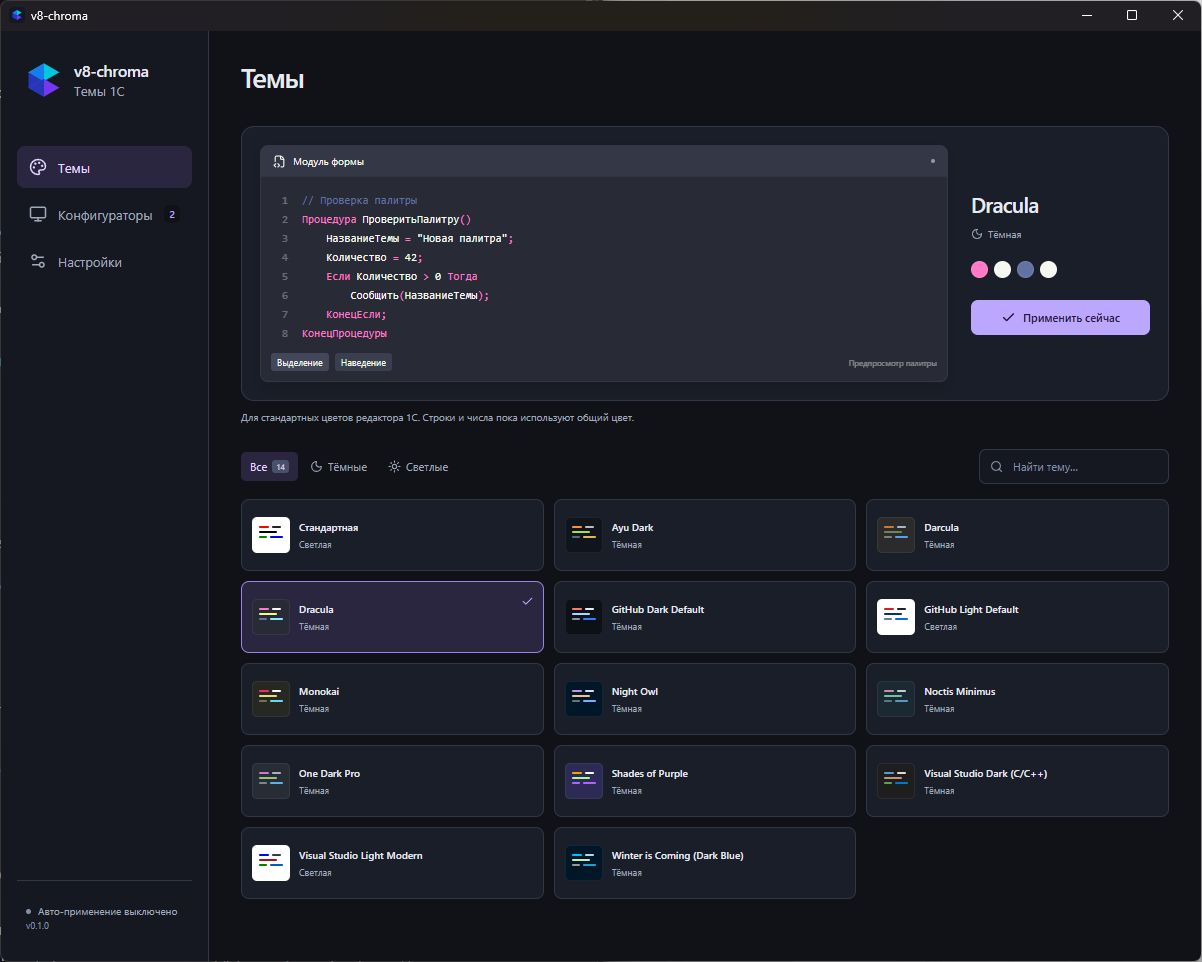
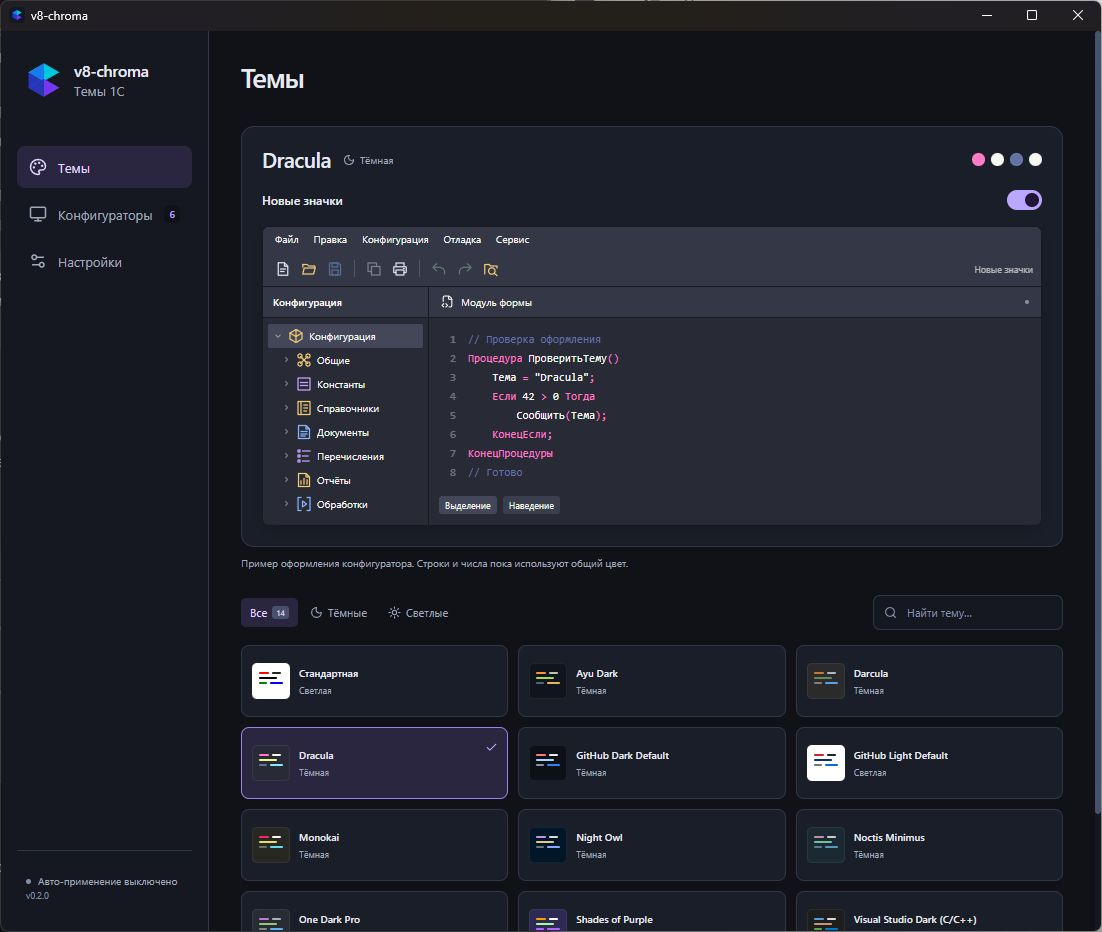
Исправить применение новых значков на других версиях платформы (#4)
Убрано ограничение новых значков по точной версии платформы. Доступность подсистемы определяется Cairo API и импортами, подмена выполняется по отпечатку и размерам каждого изображения.

Добавлены регрессии bootstrap для EXE версии 8.5.4.1878 и уточнённые проверки режима значков. Обновлены раздел совместимости и скриншоты README. Все шесть CI-задач и CodeRabbit прошли.

diff --git a/native/tests/icon_bootstrap.cpp b/native/tests/icon_bootstrap.cpp
@@ -1,5 +1,5 @@
-// Production bootstrap with a deterministic failing icon component. The icon
-// module's own fixture separately checks real preparation failures and cleanup.
+// Production bootstrap on an 8.5 host, with available/failing icon components.
+// The icon module's fixture separately checks real image matching and cleanup.
 #include "../src/protocol.h"
 #include "../src/icon_theme.h"
 #include <stdio.h>
@@ -16,16 +16,20 @@ extern "C" __declspec(dllimport) FrameResult frame_probe();
 extern "C" __declspec(dllimport) BOOL graphics_probe(const ProbeConfig*);
 extern "C" __declspec(dllimport) void graphics_icon_probe();
 
-static unsigned preparations, iconDraws;
+struct IconState { unsigned mode; };
+static IconState prepared;
+static unsigned preparations, iconDraws, activeMode;
+static bool available;
 bool initializeIconTheme(HMODULE) { return true; }
 IconState* prepareIconTheme(unsigned mode,DWORD& error) {
     ++preparations;
-    error=mode?ERROR_NOT_ENOUGH_MEMORY:ERROR_INVALID_PARAMETER;
-    return nullptr;
+    error=available?ERROR_SUCCESS:(mode?ERROR_NOT_ENOUGH_MEMORY:ERROR_INVALID_PARAMETER);
+    prepared.mode=mode;
+    return available?&prepared:nullptr;
 }
-void activateIconTheme(IconState*) {}
+void activateIconTheme(IconState* state) { activeMode=state?state->mode:0; }
 void discardIconTheme(IconState*) {}
-IconStats iconStats() { return {}; }
+IconStats iconStats() { IconStats stats={}; stats.mode=activeMode; return stats; }
 void drawIconSource(void* c,void* p,void(__cdecl* original)(void*,void*)) {
     ++iconDraws; original(c,p);
 }
@@ -36,20 +40,27 @@ void drawIconMaskSurface(void* c,void* s,double x,double y,
                         void(__cdecl* original)(void*,void*,double,double)) {
     ++iconDraws; original(c,s,x,y);
 }
-static bool snapshotMatches(const wchar_t* path,unsigned generation) {
+static bool snapshotMatches(const wchar_t* path,unsigned generation,unsigned requestedMode) {
     if (ThemeSnapshot(nullptr)) return false;
     FILE* file=_wfopen(path,L"rb");
     if (!file) return false;
     char bytes[16384]={}; fread(bytes,1,sizeof(bytes)-1,file); fclose(file);
     char expected[64]; sprintf(expected,"# generation=%u\n",generation);
-    return strstr(bytes,expected) && strstr(bytes,"# patched_imports=14\n") &&
-        strstr(bytes,"# base_patched_imports=14\n") &&
+    bool base=strstr(bytes,expected) && strstr(bytes,"# base_patched_imports=14\n");
+    if (available) {
+        sprintf(expected,"# icon_mode=%u\n",requestedMode);
+        return base && strstr(bytes,"# patched_imports=17\n") &&
+            strstr(bytes,"# icon_patched_imports=3\n") && strstr(bytes,"# icon_status=0\n") &&
+            strstr(bytes,expected) && strstr(bytes,"# icon_pack=1\n");
+    }
+    return base && strstr(bytes,"# patched_imports=14\n") &&
         strstr(bytes,"# icon_patched_imports=0\n") &&
         strstr(bytes,"# icon_status=8\n") && strstr(bytes,"# icon_mode=0\n") &&
         strstr(bytes,"# icon_pack=0\n");
 }
 int wmain(int argc,wchar_t** argv) {
-    if (argc!=3) return 2;
+    if (argc!=3 && argc!=4) return 2;
+    available=argc==4 && !wcscmp(argv[3],L"available");
     ProbeConfig config={};
     config.size=sizeof(config); config.version=3; config.mode=1;
     config.mapCount=1; config.maps[0]={Text,0,0x123456};
@@ -64,20 +75,23 @@ int wmain(int argc,wchar_t** argv) {
     if (!GetFullPathNameW(argv[1],520,config.logPath,nullptr)) return 4;
     DWORD result=ThemeInitialize(&config);
     if (result) { printf("ThemeInitialize failed: %lu\n",result); return 5; }
-    bool ok=preparations==1 && snapshotMatches(config.logPath,1);
+    bool ok=preparations==1 && snapshotMatches(config.logPath,1,config.iconMode);
     auto frame=frame_probe();
     ok &= frame.invariants && frame.text==0x123456 && graphics_probe(&config);
-    graphics_icon_probe(); ok &= iconDraws==0;
+    graphics_icon_probe(); ok &= iconDraws==(available?3u:0u);
     // A failed optional component must not prevent subsequent color updates.
     config.maps[0].target=0x654321;
     config.iconMode=config.iconMode==1?2:1;
     ok &= ThemeApply(&config)==ERROR_SUCCESS;
     frame=frame_probe();
-    ok &= preparations==1 && frame.invariants && frame.text==0x654321;
-    ok &= graphics_probe(&config) && snapshotMatches(config.logPath,2);
+    ok &= preparations==(available?2u:1u) && frame.invariants && frame.text==0x654321;
+    ok &= graphics_probe(&config) && snapshotMatches(config.logPath,2,config.iconMode);
     ok &= ThemeStop(nullptr)==ERROR_SUCCESS;
     frame=frame_probe();
     ok &= frame.invariants && frame.text==0;
-    printf("Icon preparation failure: color bootstrap, stock imports, status, apply, stop: %s\n",ok?"PASS":"FAIL");
+    // Stop keeps the import hooks but disables their replacement state.
+    unsigned before=iconDraws; graphics_icon_probe();
+    ok &= activeMode==0 && iconDraws==before+(available?3u:0u);
+    printf("8.5 host icons %s: bootstrap, imports, status, apply, stop: %s\n",available?"available":"preparation failure",ok?"PASS":"FAIL");
     return ok?0:1;
 }

diff --git a/native/src/probe.cpp b/native/src/probe.cpp
@@ -3,7 +3,6 @@
 #include "raster_theme.h"
 #include "editor_selection.h"
 #include "icon_theme.h"
-#include <vector>
 #include <stdio.h>
 #include <math.h>
 #include <wchar.h>
@@ -40,26 +39,12 @@ static Row rows[capacity];
 static unsigned long long dropped;
 static unsigned patchCount;
 static unsigned browserPatchCount, iconPatchCount;
-static DWORD iconStatus=ERROR_NOT_SUPPORTED;
+static DWORD iconStatus=ERROR_PROC_NOT_FOUND;
 static void (__cdecl *realIconSource)(void*,void*),(*realIconMask)(void*,void*);
 static void (__cdecl *realIconMaskSurface)(void*,void*,double,double);
 static void __cdecl hookedIconSource(void* c,void* p) { ThemeRead guard; drawIconSource(c,p,realIconSource); }
 static void __cdecl hookedIconMask(void* c,void* p) { ThemeRead guard; drawIconMask(c,p,realIconMask); }
 static void __cdecl hookedIconMaskSurface(void* c,void* p,double x,double y) { ThemeRead guard; drawIconMaskSurface(c,p,x,y,realIconMaskSurface); }
-static bool iconProfileSupported() noexcept {
-    try {
-    wchar_t exe[32768];
-    if (!GetModuleFileNameW(nullptr,exe,32768)) return false;
-    DWORD ignored=0, size=GetFileVersionInfoSizeW(exe,&ignored);
-    if (!size || size>1024*1024) return false;
-    std::vector<BYTE> bytes(size);
-    if (!GetFileVersionInfoW(exe,0,size,bytes.data())) return false;
-    VS_FIXEDFILEINFO* info=nullptr; UINT length=0;
-    return VerQueryValueW(bytes.data(),L"\\",reinterpret_cast<void**>(&info),&length) &&
-        length>=sizeof(*info) && info->dwSignature==0xFEEF04BD &&
-        info->dwFileVersionMS==MAKELONG(3,8) && info->dwFileVersionLS==MAKELONG(2325,27);
-    } catch (...) { return false; }
-}
 static SRWLOCK lifecycleLock=SRWLOCK_INIT;
 static const char* apiNames[] = {"", "SetTextColor", "SetBkColor", "CreateSolidBrush", "CreatePen",
     "cairo_set_source_rgb", "cairo_set_source_rgba", "cairo_pattern_add_color_stop_rgba", "cairo_mesh_pattern_set_corner_color_rgba"};
@@ -489,8 +474,10 @@ extern "C" __declspec(dllexport) DWORD WINAPI ThemeInitialize(void* argument) {
         browserPatchCount=patchCount-first;
     }
     if (!ok) { rollback(); ThemeSnapshot(nullptr); return ERROR_PROC_NOT_FOUND; }
+    // Capabilities enable the hooks; exact image fingerprints decide each
+    // replacement. The host's platform version does not gate known images.
     // Optional icon imports never make the color engine unavailable.
-    if (iconProfileSupported() && initializeIconTheme(GetModuleHandleW(L"cairo.dll"))) {
+    if (initializeIconTheme(GetModuleHandleW(L"cairo.dll"))) {
         unsigned first=patchCount;
         bool iconsOk=patchImport(graphics,"cairo.dll","cairo_set_source",(void*)hookedIconSource,(void**)&realIconSource);
         iconsOk &= patchImport(graphics,"cairo.dll","cairo_mask",(void*)hookedIconMask,(void**)&realIconMask);

diff --git a/src/manager.rs b/src/manager.rs
@@ -238,7 +238,7 @@ fn icon_result(snapshot: &EngineSnapshot, requested: bool) -> (String, Option<St
         (
             "unavailable".into(),
             Some(format!(
-                "Тема применена; новые значки недоступны для этой платформы (Win32={}). Используются штатные значки.",
+                "Тема применена; не удалось включить новые значки (Win32={}). Используются штатные значки.",
                 snapshot.icon_status
             )),
         )

diff --git a/scripts/build.py b/scripts/build.py
@@ -74,6 +74,7 @@ def check(toolchain, target, preset, cairo):
     with tempfile.TemporaryDirectory(prefix="icon-bootstrap-") as temporary:
         for mode in (1, 2):
             run(ROOT / "tests/fixtures/icon_bootstrap_test.exe", Path(temporary) / "colors.csv", mode)
+            run(ROOT / "tests/fixtures/icon_bootstrap_test.exe", Path(temporary) / "available.csv", mode, "available")
     basic_checks()
     cargo(toolchain, "fmt", "--all", "--check")
     npm("ci", "--no-audit", "--no-fund")

diff --git a/native/src/protocol.h b/native/src/protocol.h
@@ -14,6 +14,6 @@ struct ProbeConfig {
     wchar_t targetDir[260];
     wchar_t logPath[520];
     ColorMap maps[256];
-    DWORD iconMode, iconPack; // 0=stock, 1=light, 2=dark; pack 1=8.3.27.2325
+    DWORD iconMode, iconPack; // 0=stock, 1=light, 2=dark; pack 1=known image fingerprints
 };
 static_assert(sizeof(RenderColors)==40 && sizeof(ProbeConfig)==4760, "Protocol v3 layout mismatch");

diff --git a/docs/custom-icons.md b/docs/custom-icons.md
@@ -33,13 +33,15 @@ v8-chroma-cli --config-dir '<profile>' settings set --custom-icons on
 v8-chroma-cli --config-dir '<profile>' attach --pid <test-designer-pid>
 ```
 
-Проверенный профиль — 8.3.27.2325 Windows x64. Подмена требует точного совпадения
-содержимого и размеров поверхности. Для трёх кнопок цвета панели форматирования
+Исходные отпечатки собраны на 8.3.27.2325 Windows x64. Номер версии платформы
+не ограничивает подмену: нужны совместимые Cairo API и импорты, а каждое
+изображение проверяется по точному совпадению содержимого и размеров поверхности.
+Для трёх кнопок цвета панели форматирования
 сравнивается известный рисунок 16×12; нижние четыре строки 16×16 поверхности —
 изменяемый индикатор выбранного цвета — сохраняются без преобразования.
 Ключ кэша включает всю исходную поверхность, поэтому смена цвета обновляет индикатор.
 Незнакомые изображения, заголовки/вкладки,
-принтерные/PDF/SVG назначения остаются штатными. При недоступности профиля или
+принтерные/PDF/SVG назначения остаются штатными. При недоступности Cairo API или
 трёх необязательных импортов тема работает, а GUI/CLI показывают причину отказа.
 Ошибка подготовки значков при первом подключении также оставляет цветовую тему
 активной: откатываются только перехваты значков, сохраняется код ошибки.

diff --git a/CHANGELOG.md b/CHANGELOG.md
@@ -1,5 +1,10 @@
 # Изменения
 
+## Не выпущено
+
+- Убрано ограничение новых значков по номеру платформы: совместимость определяется
+  доступностью Cairo API и точным отпечатком изображения. Незнакомые значки остаются штатными.
+
 ## 0.2.0 — 2026-10-29
 
 ### Добавлено
